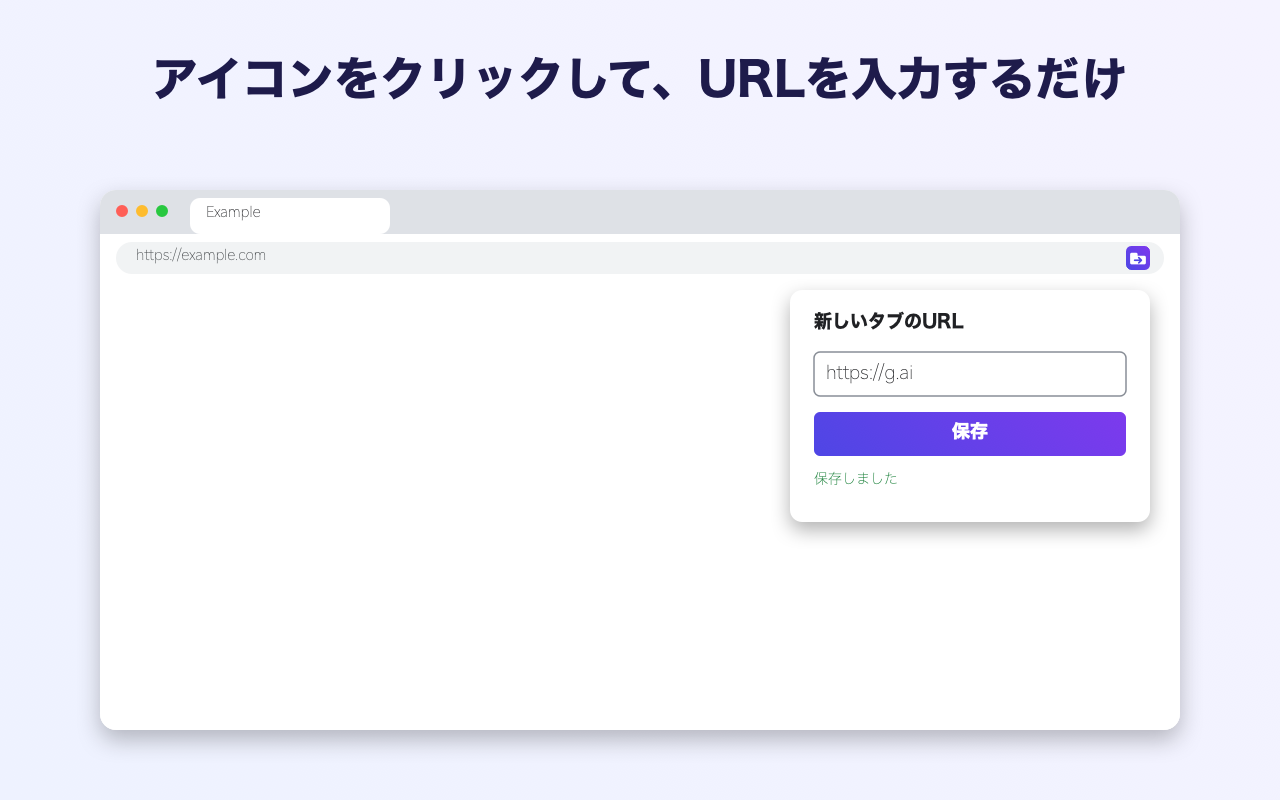
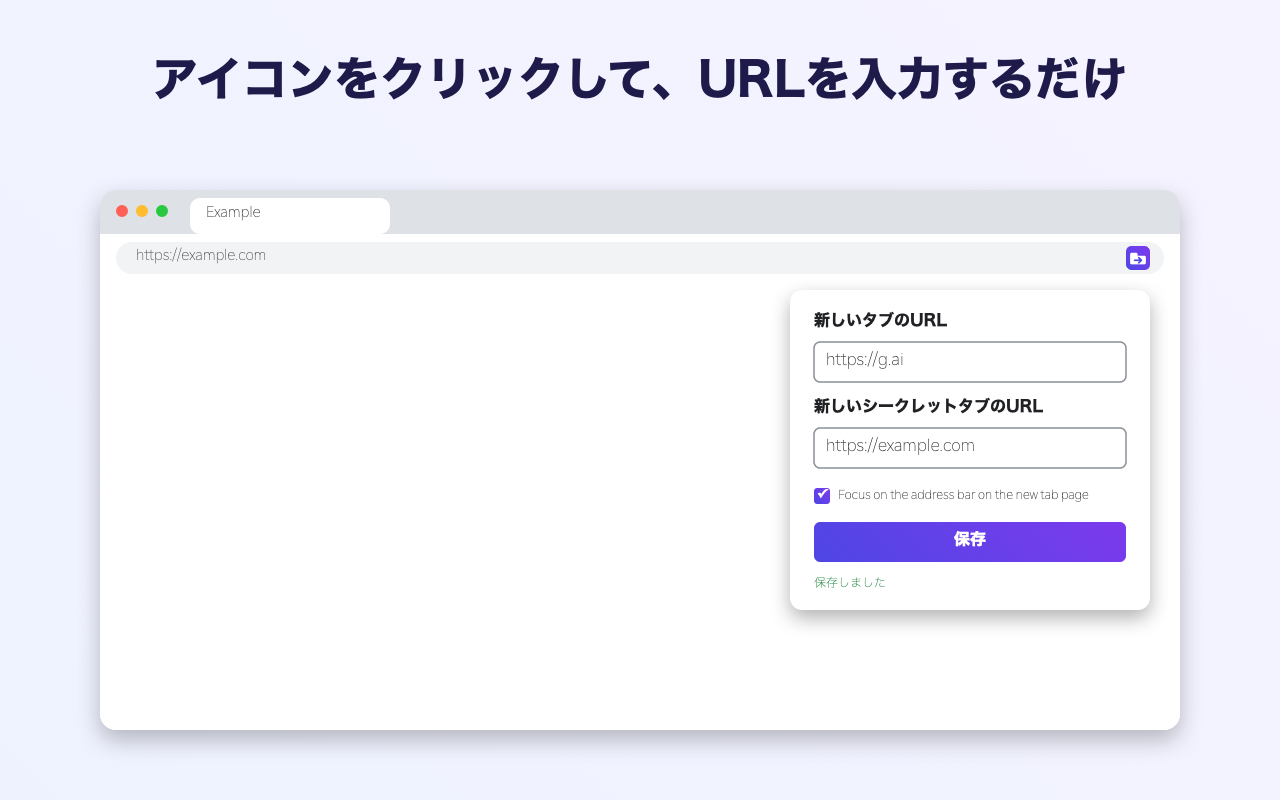
feat: separate new tab URL for incognito windows

Changed region(s): [[0.5938, 0.375, 0.9062, 0.7812]]

diff --git a/popup.js b/popup.js
@@ -1,12 +1,13 @@
-const input = document.getElementById("url");
+const urlInput = document.getElementById("url");
+const incognitoInput = document.getElementById("incognitoUrl");
+const focusBox = document.getElementById("focus");
 const msg = document.getElementById("msg");
 
-const focusBox = document.getElementById("focus");
-
-chrome.storage.local.get({ url: "https://g.ai", focus: true }, ({ url, focus }) => {
-  input.value = url;
+chrome.storage.local.get({ url: "https://g.ai", incognitoUrl: "", focus: true }, ({ url, incognitoUrl, focus }) => {
+  urlInput.value = url;
+  incognitoInput.value = incognitoUrl;
   focusBox.checked = focus;
-  input.select();
+  urlInput.select();
 });
 
 // チェックボックスは変更と同時に保存(保存ボタンはURL用)
@@ -27,16 +28,26 @@ function normalize(raw) {
 }
 
 function save() {
-  const url = normalize(input.value);
+  const url = normalize(urlInput.value);
   if (!url) {
-    msg.textContent = "http(s) の有効なURLを入力してください";
+    msg.textContent = "新しいタブには http(s) の有効なURLを入力してください";
     return;
   }
-  chrome.storage.local.set({ url }, () => {
-    input.value = url;
+  // シークレット用は空欄なら通常と同じURLを使う
+  const incognitoRaw = incognitoInput.value.trim();
+  const incognitoUrl = incognitoRaw ? normalize(incognitoRaw) : "";
+  if (incognitoUrl === null) {
+    msg.textContent = "シークレット用は http(s) の有効なURLか空欄にしてください";
+    return;
+  }
+  chrome.storage.local.set({ url, incognitoUrl }, () => {
+    urlInput.value = url;
+    incognitoInput.value = incognitoUrl;
     msg.textContent = "保存しました";
   });
 }
 
 document.getElementById("save").addEventListener("click", save);
-input.addEventListener("keydown", (e) => { if (e.key === "Enter") save(); });
+for (const el of [urlInput, incognitoInput]) {
+  el.addEventListener("keydown", (e) => { if (e.key === "Enter") save(); });
+}

diff --git a/popup.html b/popup.html
@@ -4,8 +4,9 @@
 <style>
   :root { color-scheme: light dark; }
   body { font: 14px system-ui, sans-serif; width: 320px; margin: 0; padding: 16px; box-sizing: border-box; }
-  h1 { font-size: 14px; margin: 0 0 10px; }
-  input { width: 100%; box-sizing: border-box; padding: 8px; font-size: 14px; }
+  h1 { font-size: 14px; margin: 0 0 6px; }
+  h1 + input { margin-bottom: 12px; }
+  input[type="text"] { width: 100%; box-sizing: border-box; padding: 8px; font-size: 14px; }
   button { margin-top: 10px; width: 100%; padding: 8px; font-size: 14px; border: 0; border-radius: 6px;
            background: #4f46e5; color: #fff; cursor: pointer; }
   label { display: flex; gap: 8px; align-items: center; margin-top: 12px; font-size: 13px; cursor: pointer; }
@@ -13,6 +14,8 @@
 </style>
 <h1>新しいタブのURL</h1>
 <input id="url" type="text" placeholder="https://example.com" autofocus>
+<h1>新しいシークレットタブのURL</h1>
+<input id="incognitoUrl" type="text" placeholder="空欄なら上と同じURL">
 <label><input id="focus" type="checkbox"> Focus on the address bar on the new tab page</label>
 <button id="save">保存</button>
 <div id="msg"></div>

diff --git a/background.js b/background.js
@@ -11,13 +11,14 @@ async function redirectIfIncognitoNewTab(tab) {
   if (!NEW_TAB_URLS.includes(current)) return;
   handled.add(tab.id);
 
-  const { url, focus } = await chrome.storage.local.get({ url: DEFAULT_URL, focus: true });
+  const { url, incognitoUrl, focus } = await chrome.storage.local.get({ url: DEFAULT_URL, incognitoUrl: "", focus: true });
+  const target = incognitoUrl || url || DEFAULT_URL;
   try {
     if (focus) {
-      await chrome.tabs.update(tab.id, { url: url || DEFAULT_URL });
+      await chrome.tabs.update(tab.id, { url: target });
     } else {
       // update だとアドレスバーのフォーカスが残るため、別タブで開き直してページにフォーカスを渡す
-      await chrome.tabs.create({ windowId: tab.windowId, index: tab.index, url: url || DEFAULT_URL, active: true });
+      await chrome.tabs.create({ windowId: tab.windowId, index: tab.index, url: target, active: true });
       await chrome.tabs.remove(tab.id);
     }
   } catch (e) {

diff --git a/README.md b/README.md
@@ -20,6 +20,8 @@ Chrome ウェブストアの公開枠の都合で、GitHub から手動インス
 
 ツールバーのアイコンをクリックし、ポップアップにURLを入力して「保存」(Enter でも可)。初期値は `https://g.ai` です。
 
+- 「新しいタブのURL」と「新しいシークレットタブのURL」を別々に設定できます。シークレット用が空欄なら、通常と同じURLを使います。
+
 「Focus on the address bar on the new tab page」で、新しいタブを開いたときにアドレスバーへフォーカスを残すかを切り替えられます(初期値: オン)。オフにすると遷移先のページにフォーカスが移ります(通常・シークレット共通。オフのときは新しいタブを開き直すため、一瞬チラつくことがあります)。
 
 ![ポップアップでURLを設定](docs/screenshot-2-1280x800.png)
